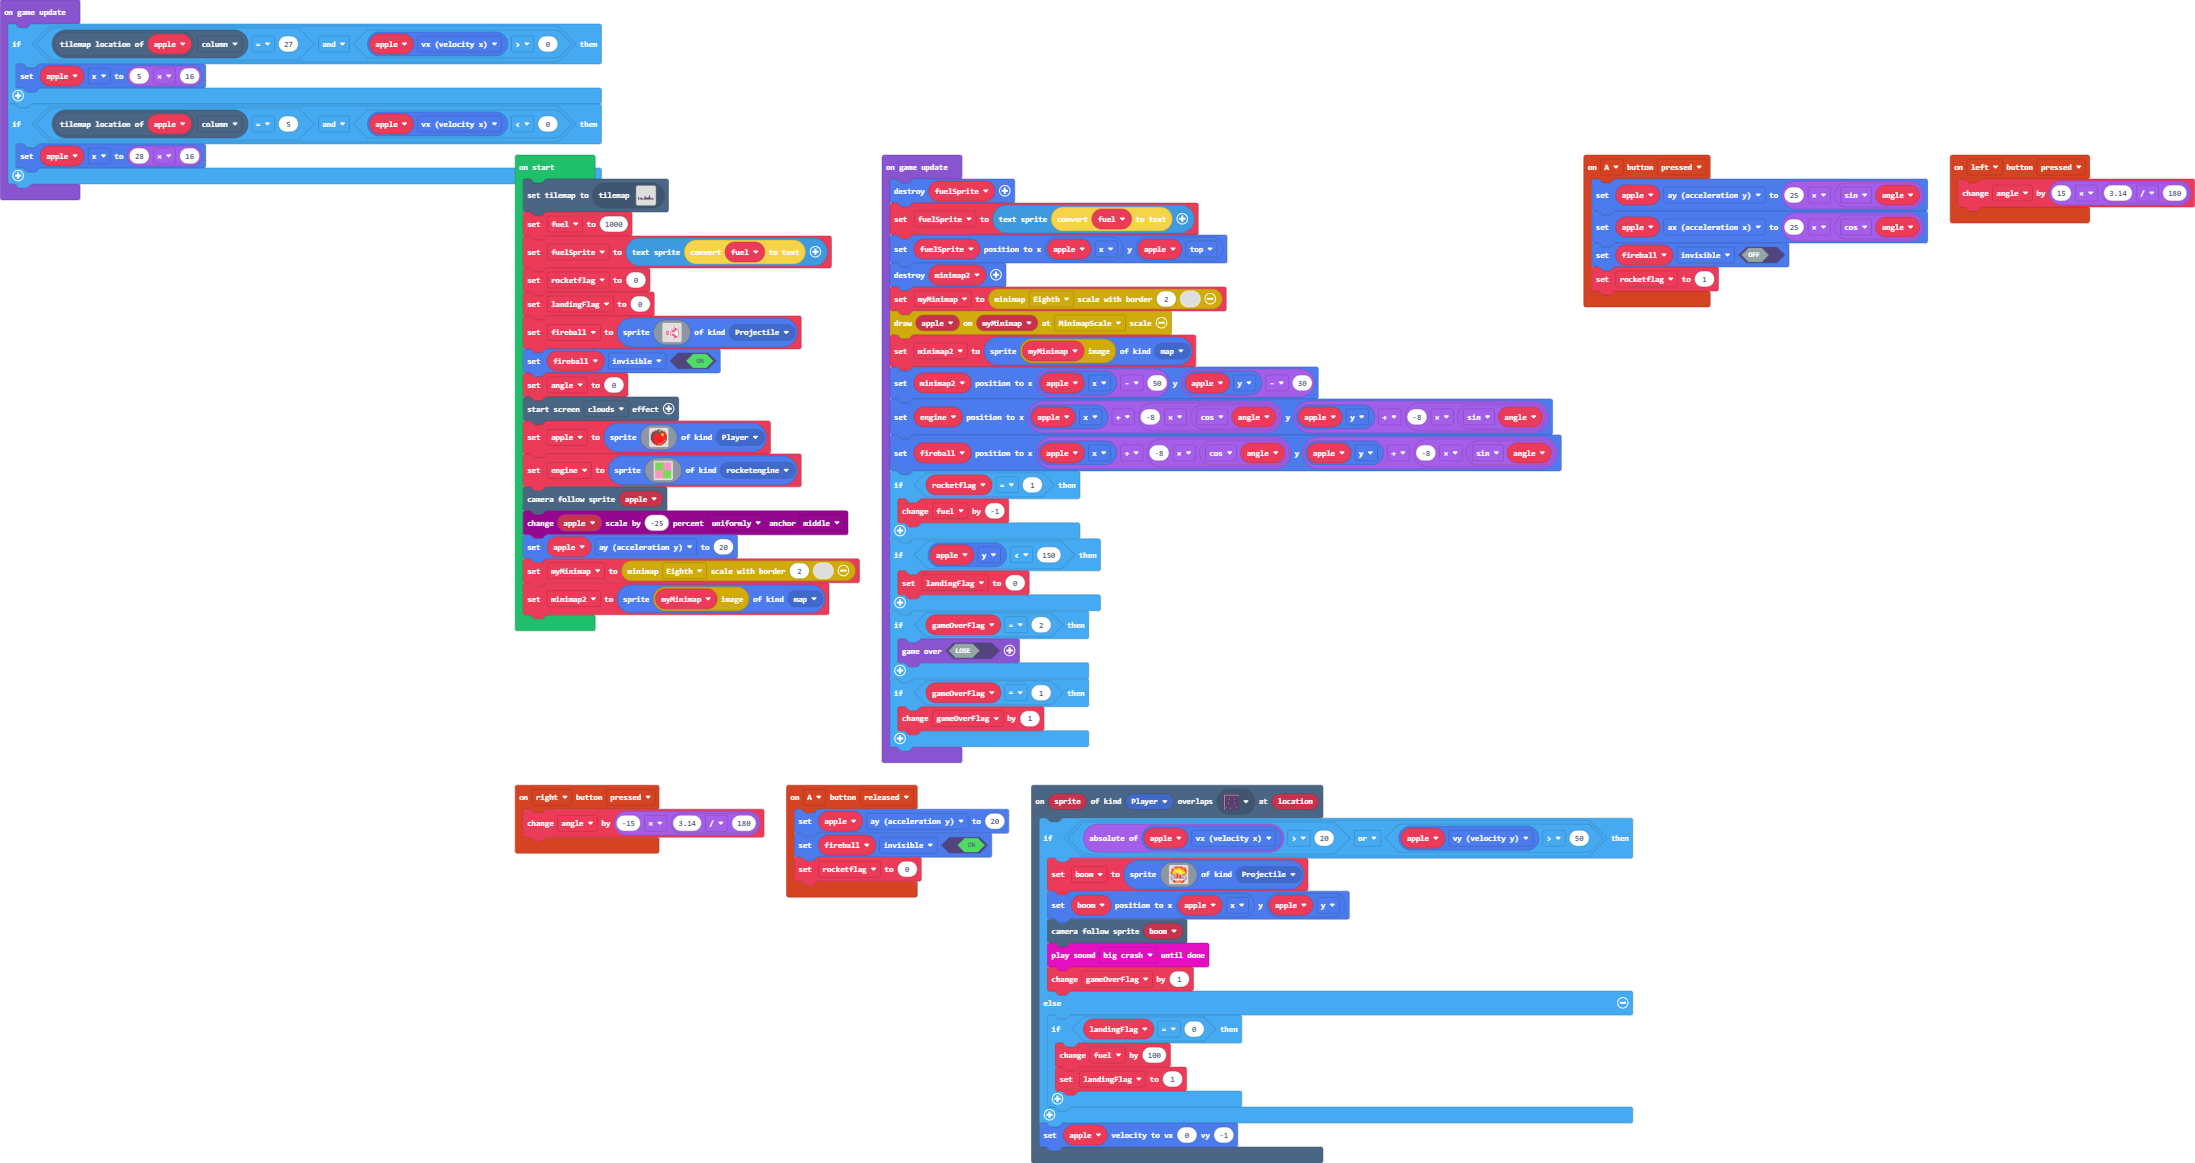
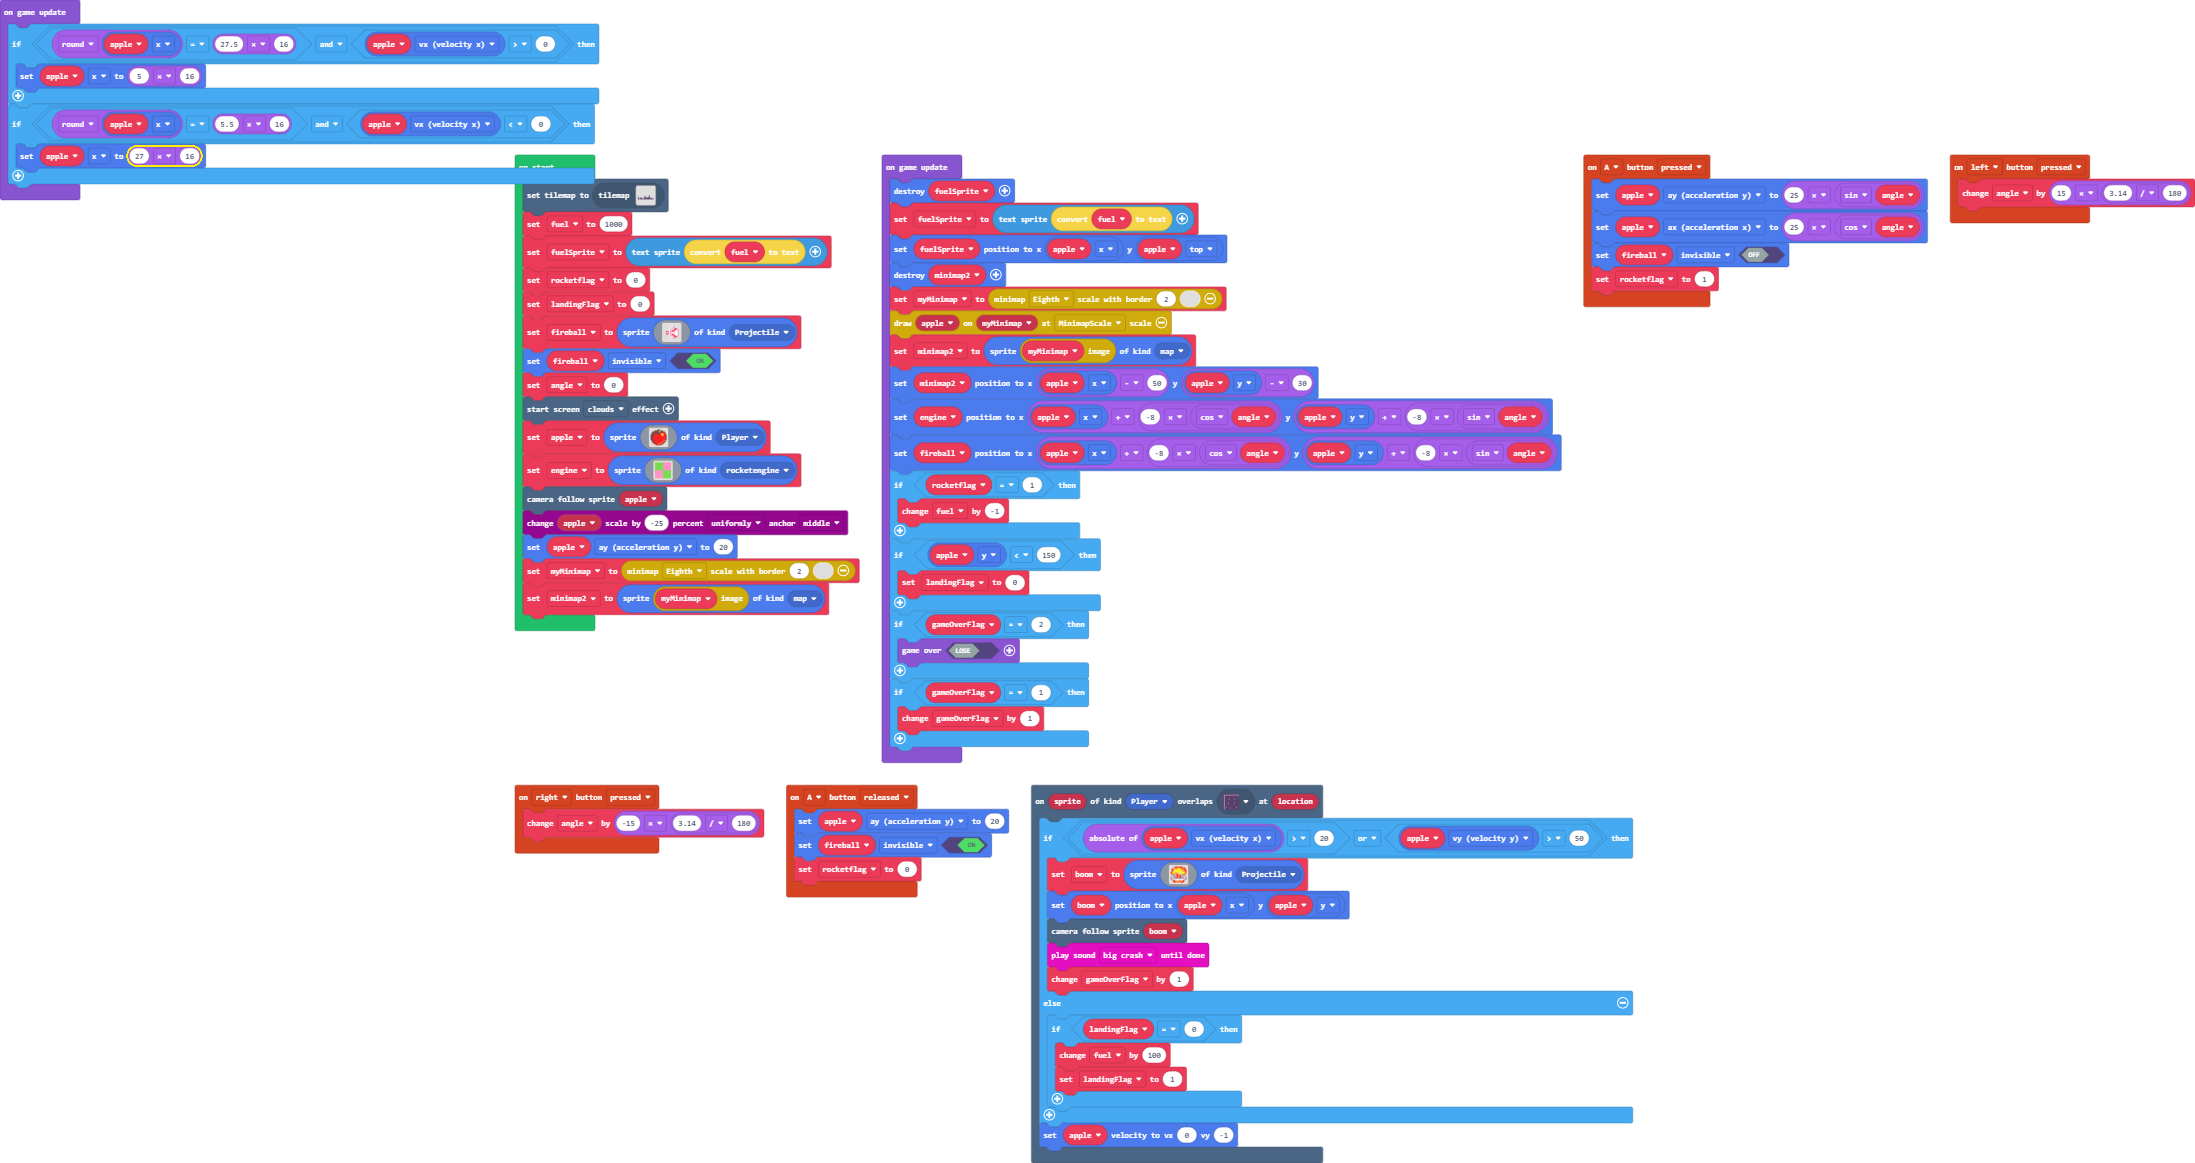
still working on it

Changed region(s): [[0.0, 0.0929, 0.2788, 0.1857], [0.0, 0.0, 0.2788, 0.0619]]

diff --git a/main.ts b/main.ts
@@ -112,11 +112,11 @@ apple.ay = 20
 let myMinimap = minimap.minimap(MinimapScale.Eighth, 2, 0)
 let minimap2 = sprites.create(minimap.getImage(myMinimap), SpriteKind.map)
 game.onUpdate(function () {
-    if (apple.tilemapLocation().column == 27 && apple.vx > 0) {
+    if (Math.round(apple.x) == 27.5 * 16 && apple.vx > 0) {
         apple.x = 5 * 16
     }
-    if (apple.tilemapLocation().column == 5 && apple.vx < 0) {
-        apple.x = 28 * 16
+    if (Math.round(apple.x) == 5.5 * 16 && apple.vx < 0) {
+        apple.x = 27 * 16
     }
 })
 game.onUpdate(function () {
